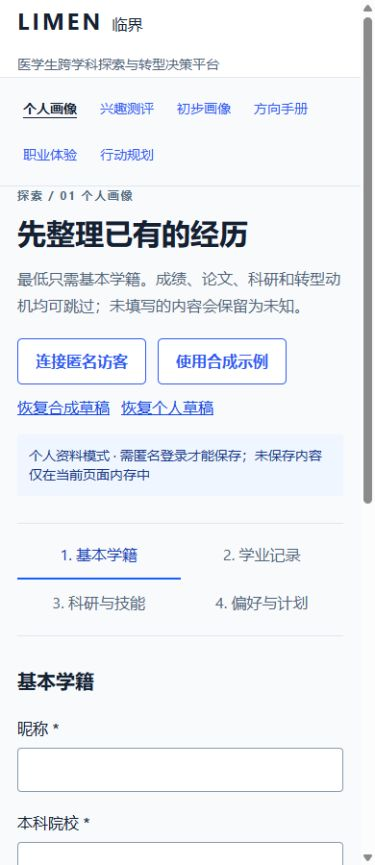
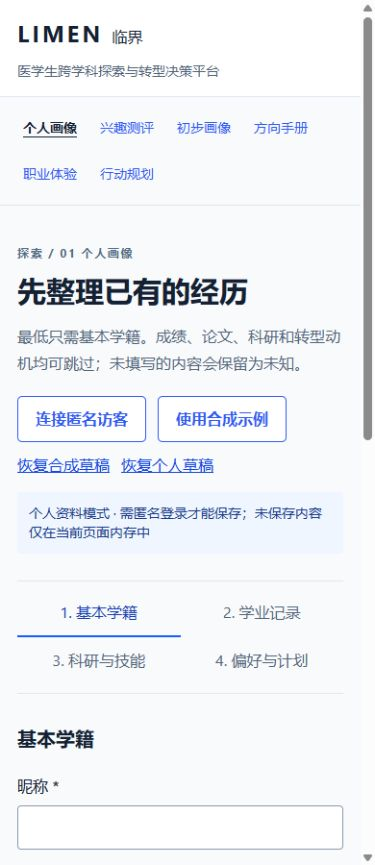
fix: bind R2 reports to submitted plans and preserve evidence snapshots

diff --git a/src/components/ai-report.tsx b/src/components/ai-report.tsx
@@ -1,23 +1,28 @@
 "use client";
 import { useState } from "react";
-import { readSavedExplanation, type AiExplanation } from "@/lib/ai";
+import { readSavedExplanation } from "@/lib/ai";
+import { parseR2Planning } from "@/lib/planning";
 import { download } from "@/lib/download";
 
-export function AiReport({ kind, direction }: { kind: "R1" | "R2"; direction?: string }) {
-  const [result, setResult] = useState<{ explanation: AiExplanation; generated_at: string } | null>(null);
+export function AiReport({ kind, direction, planning, alternatives = [], enabled = true }: { kind: "R1" | "R2"; direction?: string; planning?: unknown; alternatives?: string[]; enabled?: boolean }) {
+  const [result, setResult] = useState<ReturnType<typeof readSavedExplanation> | null>(null);
   const [message, setMessage] = useState("尚未生成或读取 AI 解释。仅在服务已配置并启用时可调用。");
   const [busy, setBusy] = useState(false);
   async function request(generate: boolean) {
+    if (!enabled || (kind === "R2" && !direction)) return;
     setBusy(true); setResult(null);
     try {
-      const response = await fetch(generate ? "/api/reports" : `/api/reports?kind=${kind}`, generate ? { method: "POST", headers: { "Content-Type": "application/json" }, body: JSON.stringify({ kind, ...(direction ? { direction_id: direction } : {}) }) } : undefined);
+      const currentPlanning = kind === "R2" ? parseR2Planning(planning) : undefined;
+      const body = kind === "R2" ? { kind, direction_id: direction, planning: currentPlanning, alternative_ids: alternatives } : { kind };
+      const response = await fetch(generate ? "/api/reports" : `/api/reports?kind=${kind}`, generate ? { method: "POST", headers: { "Content-Type": "application/json" }, body: JSON.stringify(body) } : undefined);
       const data = await response.json(); if (!response.ok) throw new Error(data.error?.message ?? "AI 解释未生成。");
       if (!data.report) throw new Error("当前访客没有保存的此类 AI 报告。");
-      setResult(readSavedExplanation(data.report, kind, direction)); setMessage("已读取服务实际生成并保存的 AI 解释。请逐项对照证据，不将解释作为报考资格结论。");
+      setResult(readSavedExplanation(data.report, kind, direction, currentPlanning, alternatives)); setMessage("已读取服务实际生成并保存的 AI 解释。请逐项对照证据，不将解释作为报考资格结论。");
     } catch (error) { setMessage(error instanceof Error ? error.message : "读取失败，未生成报告。"); }
     finally { setBusy(false); }
   }
-  return <section className="mt-10 border-t pt-7"><h2 className="text-xl font-semibold">AI 解释 · {kind}</h2><p className="mt-3 text-sm leading-7 muted">生成时仅向配置的服务发送兴趣结果、技能/项目证据及必要体验和计划参数，不发送昵称与院校字段。自由文本可能含本人信息，请在画像中去除不必要的标识。AI 服务默认关闭。</p><div className="mt-4 flex flex-wrap gap-3"><button className="button secondary" disabled={busy} onClick={() => request(false)}>读取已保存的 AI 报告</button><button className="button" disabled={busy || (kind === "R2" && !direction)} onClick={() => request(true)}>{busy ? "处理中…" : "基于当前私有证据生成 AI 解释"}</button></div><p className="status text-sm" role="status">{message}</p>
-    {result && <><p className="mt-4 text-xs muted">实际生成时间：{result.generated_at}</p><ul className="mt-4 space-y-5">{result.explanation.explanations.map((item, i) => <li key={i}><p className="leading-7">{item.text}</p><p className="mt-1 break-all text-xs muted">证据：{item.evidence_refs.join("；")}</p></li>)}</ul><ul className="mt-5 list-disc pl-5 text-sm leading-7">{result.explanation.unknowns.map((s) => <li key={s}>{s}</li>)}</ul><button className="button secondary mt-5" onClick={() => download(`limen-${kind}-ai-explanation.json`, JSON.stringify(result, null, 2))}>导出 AI 解释与引用</button></>}
+  const disabled = busy || !enabled || (kind === "R2" && !direction);
+  return <section className="mt-10 border-t pt-7"><h2 className="text-xl font-semibold">AI 解释 · {kind}</h2><p className="mt-3 text-sm leading-7 muted">生成时仅向配置的服务发送兴趣结果、技能/项目证据及必要体验和计划参数，不发送昵称与院校字段。自由文本可能含本人信息，请在画像中去除不必要的标识。AI 服务默认关闭。</p>{kind === "R2" && <p className="mt-3 text-sm leading-7 muted">正式解释需读取个人画像、官方测评和私有体验，并填写有效条件与预算。合成草案不调用AI。本页参数随新报告保存，不自动覆盖画像。</p>}<div className="mt-4 flex flex-wrap gap-3"><button className="button secondary" disabled={disabled} onClick={() => request(false)}>读取已保存的 AI 报告</button><button className="button" disabled={disabled} onClick={() => request(true)}>{busy ? "处理中…" : "基于当前私有证据生成 AI 解释"}</button></div><p className="status text-sm" role="status">{message}</p>
+    {result && <><p className="mt-4 text-xs muted">实际生成时间：{result.generated_at}</p>{result.planning && <p className="mt-2 text-sm leading-7">报告条件：{result.planning.transition_year}年 · {result.planning.pathway} · 每周{result.planning.weekly_hours}小时；基础/练习/复盘预算：{result.planning.weekly_allocation.foundation}/{result.planning.weekly_allocation.practice}/{result.planning.weekly_allocation.review}小时。</p>}<ul className="mt-4 space-y-5">{result.explanation.explanations.map((item, i) => <li key={i}><p className="leading-7">{item.text}</p><p className="mt-1 break-all text-xs muted">证据：{item.evidence_refs.join("；")}</p></li>)}</ul><ul className="mt-5 list-disc pl-5 text-sm leading-7">{result.explanation.unknowns.map((s) => <li key={s}>{s}</li>)}</ul><details className="mt-5 border-y py-4"><summary className="cursor-pointer font-medium">查看报告生成时的证据快照</summary><p className="mt-3 text-sm muted">以下依据属于本份已保存报告，不会被当前编辑中的画像替换。</p><ul className="mt-4 divide-y">{result.evidence.map((entry) => <li key={entry.ref} className="py-4"><code className="break-all text-xs">{entry.ref}</code><pre className="mt-2 whitespace-pre-wrap break-words text-sm leading-7">{JSON.stringify(entry.value, null, 2)}</pre></li>)}</ul></details><button className="button secondary mt-5" onClick={() => download(`limen-${kind}-ai-explanation.json`, JSON.stringify(result, null, 2))}>导出 AI 解释、条件与证据</button></>}
   </section>;
 }

diff --git a/src/app/report/plan/report.tsx b/src/app/report/plan/report.tsx
@@ -21,7 +21,7 @@ export function PlanReport({ initialDirection }: { initialDirection: string }) {
   const [message, setMessage] = useState("请选择目标方向，并读取画像与体验反馈。当前仅提供可追溯规则草案，正式 AI R2 尚未生成。");
   const [alternatives, setAlternatives] = useState<string[]>([]);
   const [budget, setBudget] = useState({ foundation: 0, practice: 0, review: 0 });
-  const plan = direction && findDirection(direction) ? actionPlan(profile, direction, experience, new Date(), assessment) : null;
+  const plan = direction && findDirection(direction) ? actionPlan(profile, direction, experience, new Date(), assessment, undefined, alternatives) : null;
   const budgetTotal = budget.foundation + budget.practice + budget.review;
   const budgetValid = budgetTotal > 0 && profile.weekly_hours !== null && budgetTotal <= profile.weekly_hours;
   const ready = loaded && !!experience && !!plan?.planning_ready && budgetValid;
@@ -41,7 +41,7 @@ export function PlanReport({ initialDirection }: { initialDirection: string }) {
         const parsed = experienceSchema.safeParse(exp.experience);
         setProfile(personalProfile); setSimulation(false); setAssessment(official);
         setExperience(parsed.success ? parsed.data : null); setLoaded(true);
-        setMessage(parsed.success ? "已读取当前访客私有画像与合成工作台反馈。计划条件需通过画像页保存后才能生成正式报告。" : "已读取个人画像，尚无当前访客的私有体验记录。请在工作台完成后保存到当前访客。");
+        setMessage(parsed.success ? "已读取当前访客私有画像与合成工作台反馈。正式报告将使用本页明确填写的计划条件与预算。" : "已读取个人画像，尚无当前访客的私有体验记录。请在工作台完成后保存到当前访客。");
         return;
       } else {
         const value = JSON.parse(localStorage.getItem("limen:simulation:profile:v1") ?? "null");
@@ -75,8 +75,8 @@ export function PlanReport({ initialDirection }: { initialDirection: string }) {
       <fieldset className="mt-5"><legend className="font-medium">自行分配一周的预算（不代表课程所需时长）</legend><div className="mt-3 grid gap-4 sm:grid-cols-3">{([["foundation", "基础学习"], ["practice", "小型练习"], ["review", "复盘与核验"]] as const).map(([id, label]) => <label key={id}>{label} / 小时<input className="field" type="number" step="0.5" min={0} max={168} value={budget[id]} onChange={(e) => setBudget((b) => ({ ...b, [id]: Math.max(0, Math.min(168, Number(e.target.value))) }))} /></label>)}</div></fieldset><p className="mt-4 text-sm" role="status">已分配 {budgetTotal} 小时 / 可用 {profile.weekly_hours ?? "未填写"} 小时。{budgetValid ? "预算有效；一周后用实际耗时修订。" : "请填写正数可用时间，且分配总量不得超过每周可用时间。"}</p>
       {plan.planning && <><p className="mt-4 text-sm leading-7">{plan.planning.horizon} 每个阶段以交付物验收后再推进，暂不虚构完成月份。</p><ol className="mt-5 space-y-4 border-l pl-5">{plan.planning.milestones.map((milestone) => <li key={milestone.stage}><h3 className="font-medium">{milestone.stage}</h3><p className="mt-1 text-sm leading-7">{milestone.exit_condition}</p><p className="mt-1 break-words text-xs muted">对应任务：{milestone.task_ids.join("、")}</p></li>)}</ol><p className="mt-3 text-xs leading-6 muted">升学清单为 LIMEN 编辑性准备建议，输入来自 user_profile.pathway；不代表任何项目的官方要求或已核验截止时间。</p></>}
     </section><section className="mt-9 border-t pt-6"><h2 className="text-xl font-semibold">06 · 招生核验与风险</h2><p className="mt-4 notice">已核验招生项目：0 条。没有院校可报考结论。请在官方招生页面逐条记录：年份、专业代码、招生方式、科目、跨专业资格、链接和核验日期。</p><ul className="mt-5 list-disc space-y-3 pl-5 text-sm leading-7">{plan.risks.map((risk) => <li key={risk}>{risk}</li>)}</ul></section>
-    <div className="mt-8 flex flex-wrap gap-4"><button className="button" disabled={!ready} onClick={exportDraft}>导出规则行动草案</button><Link href="/profile" className="button secondary">补充与保存画像</Link><Link href="/studio/ecg" className="button secondary">返回职业体验</Link></div><p className="mt-3 text-sm muted">导出需：读取画像、完成体验反馈、填写有效计划条件及预算。当前页修改只留在内存；通过画像页保存个人资料。</p></>}
+    <div className="mt-8 flex flex-wrap gap-4"><button className="button" disabled={!ready} onClick={exportDraft}>导出规则行动草案</button><Link href="/profile" className="button secondary">补充与保存画像</Link><Link href="/studio/ecg" className="button secondary">返回职业体验</Link></div><p className="mt-3 text-sm muted">导出需：读取画像、完成体验反馈、填写有效计划条件及预算。本页条件、预算与备选方向会随新AI报告保存；长期个人资料仍通过画像页保存。</p></>}
     <p className="mt-9 text-sm muted">本报告是探索辅助，不代表报考资格。以上为规则行动草案；正式 AI 报告的实际状态在下方独立显示。</p>
-    <AiReport key={direction} kind="R2" direction={findDirection(direction)?.id} />
+    <AiReport key={JSON.stringify([direction, alternatives, profile.transition_year, profile.weekly_hours, profile.pathway, budget, loaded, simulation])} kind="R2" direction={findDirection(direction)?.id} alternatives={alternatives} enabled={ready && !simulation && !!assessment} planning={{ transition_year: profile.transition_year, weekly_hours: profile.weekly_hours, pathway: profile.pathway, weekly_allocation: budget }} />
   </main>;
 }

diff --git a/src/app/api/reports/route.ts b/src/app/api/reports/route.ts
@@ -8,6 +8,7 @@ import { requestAiExplanation, type Evidence } from "@/lib/ai";
 import { requiredEnv } from "@/lib/server/env";
 import { checkOrigin, errorResponse, json, limit, readJson } from "@/lib/server/http";
 import { requireSession } from "@/lib/server/supabase";
+import { r2PlanningSchema } from "@/lib/planning";
 
 export const dynamic = "force-dynamic";
 export async function GET(request: Request) {
@@ -24,11 +25,14 @@ export async function POST(request: Request) {
   try {
     checkOrigin(request);
     const { client, user } = await requireSession();
+    const input = z.discriminatedUnion("kind", [
+      z.object({ kind: z.literal("R1") }).strict(),
+      z.object({ kind: z.literal("R2"), direction_id: z.string().min(1).max(50), planning: r2PlanningSchema, alternative_ids: z.array(z.string().min(1).max(50)).max(2).default([]) }).strict(),
+    ]).safeParse(await readJson(request));
+    if (!input.success) throw new AppError("REPORT_INPUT", 400, "报告请求或计划预算无效，请检查本次填写的条件。");
     if (process.env.LIMEN_ENABLE_LLM !== "true") throw new AppError("AI_DISABLED", 503, "AI 解释服务未启用。当前仅可查看规则证据草案。");
     const config = { baseUrl: requiredEnv("LLM_BASE_URL"), key: requiredEnv("LLM_API_KEY"), model: requiredEnv("LLM_MODEL") };
     limit(`ai:${user.id}`, 2); limit("ai:global", 10);
-    const input = z.object({ kind: z.enum(["R1", "R2"]), direction_id: z.string().max(50).optional() }).strict().safeParse(await readJson(request));
-    if (!input.success) throw new AppError("REPORT_INPUT", 400, "报告请求无效。");
     const [p, a] = await Promise.all([
       client.from("profiles").select("payload").eq("id", user.id).maybeSingle(),
       client.from("assessments").select("payload").eq("id", user.id).maybeSingle(),
@@ -53,14 +57,16 @@ export async function POST(request: Request) {
       const experience = experienceSchema.safeParse(e.data?.payload);
       if (!experience.success || !previous.data) throw new AppError("EXPERIENCE_REQUIRED", 409, "请先生成 R1，并将已完成的工作台体验保存到当前访客。");
       let plan;
-      try { plan = actionPlan(profile.data, input.data.direction_id ?? "", experience.data, new Date(), assessment.data); } catch { throw new AppError("DIRECTION_REQUIRED", 400, "请选择目录内目标方向。"); }
-      if (!plan.planning_ready) throw new AppError("PLAN_REQUIRED", 409, "请先在画像保存有效目标年份、每周时间与升学路径。");
+      try { plan = actionPlan(profile.data, input.data.direction_id, experience.data, new Date(), assessment.data, input.data.planning, input.data.alternative_ids); }
+      catch (error) { if (error instanceof AppError) throw error; throw new AppError("DIRECTION_REQUIRED", 400, "请选择目录内目标方向。"); }
+      if (!plan.planning_ready) throw new AppError("PLAN_REQUIRED", 409, "请填写有效目标年份、每周时间、升学路径与预算。");
       rules = { ...plan, formal_ready: true };
       evidence.push(
         { ref: "experience_feedback", kind: "experience", value: experience.data.reflection },
         { ref: `limen_direction_map:${plan.direction.id}:selected`, kind: "direction", value: { name: plan.direction.name, tasks: plan.direction.work_tasks, selected_by_user: true } },
         { ref: "competency_gaps", kind: "gap", value: plan.gaps },
-        { ref: "user_profile.planning", kind: "planning", value: { transition_year: profile.data.transition_year, weekly_hours: profile.data.weekly_hours, pathway: profile.data.pathway, admissions: "未核验", effort: "未知" } },
+        { ref: "report_input.planning", kind: "planning", value: { ...input.data.planning, source: "user_explicit_report_input", admissions: "未核验", effort: "未知" } },
+        ...plan.alternative_directions.map((d) => ({ ref: `limen_direction_map:${d.id}:alternative`, kind: "direction" as const, value: { name: d.name, tasks: d.work_tasks, selected_by_user: true, role: "subjective_alternative" } })),
       );
     }
     const ai = await requestAiExplanation(config, evidence);

diff --git a/tests/ai.test.ts b/tests/ai.test.ts
@@ -3,17 +3,37 @@ import assert from "node:assert/strict";
 import { readSavedExplanation, redactEvidence, requestAiExplanation, validateAiExplanation, type Evidence } from "../src/lib/ai";
 const evidence: Evidence[] = [{ ref: "user_profile.tech_skills[0]", kind: "transfer", value: "simulation：自述 Python 入门" }];
 const output = { explanations: [{ kind: "transfer", evidence_refs: [evidence[0].ref], text: "仅有入门自述，具体独立实践能力尚未核验。" }], unknowns: ["尚无项目成果"] };
-const savedReport = { kind: "R2", source: "llm_live", rules: { direction: { id: "ml_cv" } }, evidence, ai: { explanation: output, generated_at: "2026-10-20T12:00:00.000Z", source: "llm_live" } };
+const reportPlanning = { transition_year: 2030, weekly_hours: 4, pathway: "统考", weekly_allocation: { foundation: 2, practice: 1, review: 1 } };
+const savedReport = { kind: "R2", source: "llm_live", rules: { direction: { id: "ml_cv" }, planning_input: reportPlanning }, evidence, ai: { explanation: output, generated_at: "2026-10-20T12:00:00.000Z", source: "llm_live" } };
+
+test("mock=true saved AI: a changed year, pathway or allocation cannot reuse the old R2", () => {
+  const planning = { transition_year: 2030, weekly_hours: 4, pathway: "统考", weekly_allocation: { foundation: 2, practice: 1, review: 1 } };
+  const saved = { ...savedReport, rules: { ...savedReport.rules, planning_input: planning } };
+  for (const changed of [{ ...planning, transition_year: 2031 }, { ...planning, weekly_hours: 5 }, { ...planning, pathway: "推免" }, { ...planning, weekly_allocation: { foundation: 1, practice: 2, review: 1 } }]) assert.throws(() => readSavedExplanation(saved, "R2", "ml_cv", changed));
+  assert.deepEqual(readSavedExplanation(saved, "R2", "ml_cv", planning).planning, planning);
+  assert.throws(() => readSavedExplanation(saved, "R2", "ml_cv", planning, ["software"]));
+  assert.throws(() => readSavedExplanation({ ...saved, rules: { direction: { id: "ml_cv" } } }, "R2", "ml_cv", planning));
+});
+test("mock=true saved AI: R1 remains readable without R2 planning", () => {
+  assert.deepEqual(readSavedExplanation({ ...savedReport, kind: "R1", rules: {} }, "R1").explanation, output);
+});
+test("mock=true saved AI: exported explanations retain the saved evidence snapshot", () => {
+  const saved = { ...savedReport, kind: "R1", rules: {}, evidence: [{ ...evidence[0], value: "mock=true：生成时保存的项目依据" }] };
+  const exported = JSON.parse(JSON.stringify(readSavedExplanation(saved, "R1")));
+  assert.equal(exported.evidence[0].value, "mock=true：生成时保存的项目依据");
+  assert.equal(exported.evidence[0].ref, "user_profile.tech_skills[0]");
+});
 
 test("mock=true saved AI: R2 never displays a different selected direction", () => {
-  assert.deepEqual(readSavedExplanation(savedReport, "R2", "ml_cv").explanation, output);
+  assert.deepEqual(readSavedExplanation(savedReport, "R2", "ml_cv", reportPlanning).explanation, output);
   assert.throws(() => readSavedExplanation(savedReport, "R2", "software_eng"), /其他目标方向/);
   assert.throws(() => readSavedExplanation(savedReport, "R2"), /其他目标方向/);
   assert.throws(() => readSavedExplanation(savedReport, "R1"), /类型或结构/);
+  assert.throws(() => readSavedExplanation({ ...savedReport, rules: { ...savedReport.rules, direction: { id: "fake" } } }, "R2", "fake", reportPlanning), /其他目标方向/);
 });
 test("mock=true saved AI: missing metadata and invented references are rejected on read", () => {
   assert.throws(() => readSavedExplanation({ ...savedReport, source: "simulation" }, "R2", "ml_cv"));
-  assert.throws(() => readSavedExplanation({ ...savedReport, evidence: [] }, "R2", "ml_cv"), /证据校验/);
+  assert.throws(() => readSavedExplanation({ ...savedReport, evidence: [] }, "R2", "ml_cv", reportPlanning), /证据校验/);
   assert.throws(() => readSavedExplanation({ ...savedReport, ai: { ...savedReport.ai, generated_at: "unknown" } }, "R2", "ml_cv"));
 });
 test("mock=true AI: valid explanation requires existing evidence and matching kind", () => {

diff --git a/src/lib/ai.ts b/src/lib/ai.ts
@@ -1,5 +1,7 @@
 import { z } from "zod";
 import { AppError } from "./errors";
+import { r2PlanningSchema, type R2PlanningInput } from "./planning";
+import { findDirection } from "./directions";
 
 export type Evidence = { ref: string; kind: "interest" | "transfer" | "gap" | "experience" | "direction" | "planning"; value: unknown };
 export const aiExplanationSchema = z.object({
@@ -11,7 +13,7 @@ export const aiExplanationSchema = z.object({
   unknowns: z.array(z.string().max(200)).max(8),
 }).strict();
 export type AiExplanation = z.infer<typeof aiExplanationSchema>;
-export function readSavedExplanation(input: unknown, kind: "R1" | "R2", direction?: string) {
+export function readSavedExplanation(input: unknown, kind: "R1" | "R2", direction?: string, expectedPlanning?: unknown, expectedAlternatives: string[] = []) {
   const saved = z.object({
     kind: z.enum(["R1", "R2"]), source: z.literal("llm_live"),
     rules: z.object({ direction: z.object({ id: z.string() }).passthrough().optional() }).passthrough(),
@@ -19,11 +21,21 @@ export function readSavedExplanation(input: unknown, kind: "R1" | "R2", directio
     evidence: z.array(z.object({ ref: z.string(), kind: z.enum(["interest", "transfer", "gap", "experience", "direction", "planning"]), value: z.unknown() })),
   }).passthrough().safeParse(input);
   if (!saved.success || saved.data.kind !== kind) throw new AppError("REPORT_CONTRACT", 502, "已保存的报告类型或结构无效，请重新生成。");
-  if (kind === "R2" && (!direction || saved.data.rules.direction?.id !== direction)) throw new AppError("REPORT_DIRECTION", 409, "已保存的 R2 属于其他目标方向。请为当前方向生成报告，未展示旧方向的解释。");
+  if (kind === "R2" && (!direction || !findDirection(direction) || saved.data.rules.direction?.id !== direction)) throw new AppError("REPORT_DIRECTION", 409, "已保存的 R2 属于其他目标方向。请为当前方向生成报告，未展示旧方向的解释。");
+  let planning: R2PlanningInput | undefined;
+  if (kind === "R2") {
+    const expected = r2PlanningSchema.safeParse(expectedPlanning);
+    const stored = r2PlanningSchema.safeParse(saved.data.rules.planning_input);
+    if (!expected.success || !stored.success || JSON.stringify(expected.data) !== JSON.stringify(stored.data)) throw new AppError("REPORT_PLAN", 409, "已保存的 R2 计划条件或预算与当前页面不一致，请按当前参数重新生成。");
+    const storedAlternatives = z.array(z.object({ id: z.string().max(50) }).passthrough()).max(2).safeParse(saved.data.rules.alternative_directions ?? []);
+    const ids = storedAlternatives.success ? storedAlternatives.data.map((d) => d.id) : [];
+    if (!storedAlternatives.success || new Set(ids).size !== ids.length || ids.some((id) => id === direction || !findDirection(id)) || JSON.stringify([...ids].sort()) !== JSON.stringify([...expectedAlternatives].sort())) throw new AppError("REPORT_ALTERNATIVES", 409, "已保存的 R2 备选方向与当前选择不一致，请重新生成。");
+    planning = stored.data;
+  }
   let explanation: AiExplanation;
   try { explanation = validateAiExplanation(saved.data.ai.explanation, saved.data.evidence); }
   catch { throw new AppError("REPORT_EVIDENCE", 502, "已保存的 AI 解释未通过证据校验，请重新生成。"); }
-  return { explanation, generated_at: saved.data.ai.generated_at };
+  return { explanation, generated_at: saved.data.ai.generated_at, planning, alternative_ids: kind === "R2" ? [...expectedAlternatives] : [], evidence: saved.data.evidence };
 }
 export function validateAiExplanation(input: unknown, evidence: Evidence[]): AiExplanation {
   const parsed = aiExplanationSchema.safeParse(input);

diff --git a/src/lib/reports.ts b/src/lib/reports.ts
@@ -2,6 +2,7 @@ import { directions, findDirection, type Direction } from "./directions";
 import { profileSchema, type Profile } from "./profile";
 import { assessmentSchema, type AssessmentResult } from "./assessment";
 import type { Experience } from "./experience";
+import { parseR2Planning } from "./planning";
 
 export function skillEvidence(profile: Profile) {
   return [
@@ -47,9 +48,13 @@ function pathwayTasks(pathway: Profile["pathway"]) {
   ];
   return [];
 }
-export function actionPlan(profile: Profile, directionId: string, experience: Experience | null, now = new Date(), assessment: AssessmentResult | null = null) {
+export function actionPlan(profile: Profile, directionId: string, experience: Experience | null, now = new Date(), assessment: AssessmentResult | null = null, planningInput?: unknown, alternativeIds: string[] = []) {
+  const submittedPlanning = planningInput === undefined ? null : parseR2Planning(planningInput, now);
+  if (submittedPlanning) profile = { ...profile, transition_year: submittedPlanning.transition_year, weekly_hours: submittedPlanning.weekly_hours, pathway: submittedPlanning.pathway };
   const direction = findDirection(directionId);
   if (!direction) throw new Error("请选择目录内的目标方向。");
+  if (alternativeIds.length > 2 || new Set(alternativeIds).size !== alternativeIds.length || alternativeIds.includes(directionId)) throw new Error("请选择最多两个不同于主目标的备选方向。");
+  const alternatives = alternativeIds.map((id) => { const alternative = findDirection(id); if (!alternative) throw new Error("备选方向不在目录内。"); return alternative; });
   const source = `limen_direction_map:${direction.id}`;
   const courses = direction.courses.map((course, i) => ({ id: `course-${i + 1}`, title: `了解与练习：${course}`, why: `对应 ${direction.name} 的编辑性课程路径，具体先修要求需核验。`, source, deliverable: `${course} 的概念笔记与一个可复现练习`, dependencies: i === 0 ? [] as string[] : [`course-${i}`], priority: "基础准备", estimated_effort_range: null, stage: `学习阶段 ${i + 1}` }));
   const tasks = [...courses,
@@ -60,7 +65,9 @@ export function actionPlan(profile: Profile, directionId: string, experience: Ex
   const currentYear = now.getUTCFullYear();
   const hasParameters = profileSchema.safeParse(profile).success && profile.weekly_hours !== null && profile.weekly_hours > 0 && profile.transition_year !== null && profile.transition_year >= currentYear && profile.pathway !== "未决定";
   const official = assessment === null ? null : assessmentSchema.parse(assessment);
-  return { version: "limen-r2-rules-v2", direction, gaps: competencyGaps(profile, direction), tasks, experience: experience?.reflection ?? null,
+  return { version: submittedPlanning ? "limen-r2-rules-v3" : "limen-r2-rules-v2", direction, gaps: competencyGaps(profile, direction), tasks, experience: experience?.reflection ?? null,
+    planning_input: submittedPlanning,
+    alternative_directions: alternatives,
     interest: official ? { source: official.source, scores: official.scores, onet_version: official.onet_version, api_version: official.api_version, returned_at: official.returned_at } : null,
     experience_relevance: direction.group_id === "cs_ai" ? "体验涉及模型评价；仅覆盖目标方向的一部分活动。" : "该体验是 AI 模型评价，不能代替此方向的专属岗位体验。",
     planning_ready: hasParameters, formal_ready: false,

diff --git a/tests/reports.test.ts b/tests/reports.test.ts
@@ -75,3 +75,32 @@ test("mock=true P4: R2 preserves official interest provenance and never derives 
   assert.equal(actionPlan(simulationProfile, "ml_cv", null).interest, null);
   assert.throws(() => actionPlan(simulationProfile, "ml_cv", null, new Date("2026-10-20"), { ...complete, scores: [] }));
 });
+
+test("simulation P4: explicit report planning overrides stale profile planning without changing the profile", () => {
+  const profile = { ...simulationProfile, pathway: "统考" as const };
+  const planning = { transition_year: 2030, weekly_hours: 6, pathway: "申请制", weekly_allocation: { foundation: 3, practice: 2, review: 1 } };
+  const plan = actionPlan(profile, "ml_cv", null, new Date("2026-10-20"), null, planning);
+  assert.deepEqual(plan.planning_input, planning);
+  assert.equal(plan.planning?.target_year, 2030);
+  assert.equal(plan.planning?.weekly_hours, 6);
+  assert.equal(plan.planning?.pathway, "申请制");
+  assert.ok(plan.tasks.some((task) => task.title.includes("申请制专属")));
+  assert.equal(profile.transition_year, 2028);
+  assert.equal(profile.weekly_hours, 4);
+  assert.equal(profile.pathway, "统考");
+});
+test("simulation P4: invalid report budgets and past target years are rejected before generation", () => {
+  const valid = { transition_year: 2030, weekly_hours: 4, pathway: "统考", weekly_allocation: { foundation: 2, practice: 1, review: 1 } };
+  for (const invalid of [
+    { ...valid, transition_year: 2025 }, { ...valid, weekly_hours: 0 }, { ...valid, weekly_hours: 169 }, { ...valid, pathway: "未决定" },
+    { ...valid, weekly_allocation: { foundation: 3, practice: 1, review: 1 } },
+    { ...valid, weekly_allocation: { foundation: -1, practice: 2, review: 2 } },
+    { ...valid, weekly_allocation: { foundation: 0, practice: 0, review: 0 } },
+    { ...valid, weekly_allocation: undefined }, { ...valid, unexpected: "not accepted" },
+  ]) assert.throws(() => actionPlan(simulationProfile, "ml_cv", null, new Date("2026-10-20"), null, invalid));
+});
+test("simulation P4: selected alternatives survive the report and invalid choices are rejected", () => {
+  const plan = actionPlan(simulationProfile, "ml_cv", null, new Date("2026-10-20"), null, undefined, ["software", "clinical_data"]);
+  assert.deepEqual(plan.alternative_directions?.map((direction) => direction.id), ["software", "clinical_data"]);
+  for (const invalid of [["ml_cv"], ["fake"], ["software", "software"], ["software", "clinical_data", "signals"]]) assert.throws(() => actionPlan(simulationProfile, "ml_cv", null, new Date("2026-10-20"), null, undefined, invalid));
+});

diff --git a/src/lib/planning.ts b/src/lib/planning.ts
@@ -1,0 +1,19 @@
+import { z } from "zod";
+import { AppError } from "./errors";
+
+const hours = z.number().finite().min(0).max(168);
+export const r2PlanningSchema = z.object({
+  transition_year: z.number().int().min(2026).max(2100),
+  weekly_hours: z.number().finite().positive().max(168),
+  pathway: z.enum(["统考", "推免", "申请制"]),
+  weekly_allocation: z.object({ foundation: hours, practice: hours, review: hours }).strict(),
+}).strict().superRefine((value, ctx) => {
+  const total = value.weekly_allocation.foundation + value.weekly_allocation.practice + value.weekly_allocation.review;
+  if (total <= 0 || total > value.weekly_hours) ctx.addIssue({ code: "custom", path: ["weekly_allocation"], message: "分配总时间必须为正，且不得超过每周可用时间。" });
+});
+export type R2PlanningInput = z.infer<typeof r2PlanningSchema>;
+export function parseR2Planning(input: unknown, now = new Date()): R2PlanningInput {
+  const parsed = r2PlanningSchema.safeParse(input);
+  if (!parsed.success || parsed.data.transition_year < now.getUTCFullYear()) throw new AppError("PLAN_INPUT", 400, "计划条件或预算无效。年份不得已过期，分配总时间需为正且不超过每周可用时间。");
+  return parsed.data;
+}

diff --git a/src/app/globals.css b/src/app/globals.css
@@ -11,7 +11,7 @@ th, td { overflow-wrap: anywhere; }
 button { cursor: pointer; }
 button:disabled { cursor: not-allowed; opacity: .6; }
 :focus-visible { outline: 3px solid #5191d2; outline-offset: 4px; }
-.shell { max-width: 1120px; margin: auto; padding: 0 24px; }
+.shell { max-width: 1120px; margin-inline: auto; padding-inline: 24px; }
 .masthead { border-bottom: 1px solid var(--line); background: white; }
 .app-content { min-width: 0; }
 .app-navigation { display: flex; flex-wrap: wrap; gap: 4px 24px; max-width: 1120px; margin: auto; padding: 10px 24px; border-bottom: 1px solid var(--line); }
@@ -41,4 +41,4 @@ button, a { touch-action: manipulation; }
 input[type="range"] { min-height: 44px; }
 input[type="radio"], input[type="checkbox"] { min-width: 18px; min-height: 18px; accent-color: var(--blue); }
 @media (prefers-reduced-motion: reduce) { *, *::before, *::after { transition: none !important; animation: none !important; scroll-behavior: auto !important; } }
-@media (max-width: 640px) { .shell { padding: 0 18px; } h1 { overflow-wrap: anywhere; } }
+@media (max-width: 640px) { .shell { padding-inline: 18px; } h1 { overflow-wrap: anywhere; } }

diff --git a/docs/PROGRESS.md b/docs/PROGRESS.md
@@ -1,6 +1,6 @@
 # LIMEN 开发进度
 
-更新时间：2026-10-20（America/Los_Angeles）
+更新时间：2026-10-21（America/Los_Angeles）
 
 ## 恢复入口
 
@@ -16,7 +16,7 @@
 | P2 知识库与 R1 | PARTIAL / BLOCKED | 3/9 手册、双方向对比、证据引用规则草案；官方兴趣与 AI 未验收 |
 | P3 职业体验 | LOCAL_ACCEPTANCE_PASS | 三次真实状态变化、数值重算、反思、下载恢复、390/820/1440px 布局通过；访客云保存仍待 Supabase 联调 |
 | P4 R2 与规划 | PARTIAL / BLOCKED | 三种升学路径任务、四个交付阶段、预算和v2实际导出通过；官方兴趣来源契约通过，真实 AI R2 未验收 |
-| P5 集成与部署准备 | PARTIAL / BLOCKED | 30项单测/lint/build、5项HTTP、24项布局及实际截图通过；隐私入口和侧栏完成，真实全链路未验收 |
+| P5 集成与部署准备 | PARTIAL / BLOCKED | 36项单测/lint/build、5项HTTP、24项布局与实际截图通过，间距修正已实测；真实全链路未验收 |
 
 ## 初始检查（历史记录，后续已初始化 Git 与配置 O*NET）
 
@@ -114,3 +114,19 @@
 - 用户询问已有Supabase配置填在哪里：已说明当前Next.js16/App Router，填根`.env.local`的`SUPABASE_URL`与`SUPABASE_ANON_KEY`，此项目不使用NEXT_PUBLIC前缀；anon/publishable可用，不使用service_role。仅检查配置是否存在，最后检查两项仍false，未读取或打印值。配置变化后重启并进行真实迁移/两身份验收，不重复索取权限。
 - 本轮P4/P5仍不是正式全阶段通过：没有真实官方计分、Supabase两身份记录或真实AI生成；Goal保持未完成。
 - 提交前`git diff --cached --check`通过，24个暂存文件密钥扫描退出0（含真实截图与合成导出），未回显值；最后一次仅检查Supabase两项配置仍为false。继续等待配置实际落盘后进行相应真实验收，不假报已配置。
+
+## P4 正式报告输入一致性复核（2026-10-21，继续开发）
+
+- 恢复时Git干净，最新提交`ba43421`；同目录无其他活跃Codex任务。上一轮为实际进展。Supabase两项配置与AI配置仍未落盘，未循环请求O*NET。
+- 本轮发现正式R2原来忽略页面上新填写的年份/路径/预算，仍读取画像旧条件，且备选方向未进入正式保存内容。现改为显式请求参数，服务端独立校验年份、时间、路径、预算总额和最多两个有效备选；规则v3保存`planning_input`快照，使用`report_input.planning`引用，不静默覆盖长期画像。
+- 读取已存R2时校验方向、计划参数、预算与备选是否一致；不一致或旧报告缺快照则要求重新生成。更改条件会清除页面旧AI结果。R1仍可独立读取，不要求R2计划参数。
+- AI控件在合成模式、缺官方测评/私有体验或计划未就绪时禁用；默认AI服务仍关闭。正式服务未调用，没有发生付费操作。
+- 补充生成时的原始证据快照展示与导出，避免只导出引用编号、以后却用已修改画像解释旧报告。
+- 定向测试先复现计划未传递、旧报告可被误用、备选丢失和导出缺少证据，再逐项实现。首次3项失败、备选补充2项失败、证据导出1项失败均为预期红灯；最终完整测试/构建和浏览器检查完成后补记。
+- 最新`npm run lint`退出0、0警告；`npm test`36/36通过、0跳过；新增6用例中5项复现缺口、1项守护R1兼容性。包含计划覆盖但不修改画像、各种非法预算、备选合法性、旧报告上下文拒绝和完整证据导出；没有真实AI调用。
+- 浏览器实测：空条件下AI按钮禁用；读取simulation画像与体验、申请制、2/1/1预算有效时，规则草案可导出，AI读取和生成均禁用。390px无横向溢出，实际截图`P4-ai-context-mobile-390.png`已保存（随后还发现间距问题并修正）。
+- 视觉复查发现`.shell`的padding/margin简写覆盖Tailwind上下间距，导致正文/页脚间距失效；改为仅设置横向属性，保留页面原定上下间距，正在重建复测。
+- 最终构建退出0，TypeScript和全部页面生成通过。修正后实际读取main padding-top=40px、footer margin-top=64px、padding-top=32px；手机画像四步骤仍339px无容器溢出，第四步可达。已更新手机截图和`P5-responsive.latest.json`，24项实际布局检查均通过。
+- 最终3002占位配置HTTP smoke 5/5通过，客户端密钥扫描42文件通过；该测试进程已停止，3001真实配置预览保留。最新36项单测为实际执行结果，不代表真实O*NET/数据库/LLM验收。
+- 真实服务状态复核：Supabase两项仍未配置、AI关闭，本机Docker Linux engine pipe仍不存在；没有重复请求官方接口或收费服务，完整Goal继续未完成。
+- 提交前差异检查通过，17个暂存文件密钥扫描退出0，未输出任何值；本轮提交保存参数一致性、证据快照、间距修正与实际测试证据，非完整阶段通过声明。

diff --git a/docs/LOCAL_SETUP.md b/docs/LOCAL_SETUP.md
@@ -32,3 +32,11 @@ AI 默认关闭（`LIMEN_ENABLE_LLM=false`）。实现支持带 JSON Schema 的 
 - 完整画像、测评、体验和 R1/R2 报告表均已实现；迁移与跨身份 RLS 尚未真实验证，不能凭静态 SQL 声称隔离通过。
 - 中文题目为独立初译稿，逐题原文完全匹配后才附译文；效度与公开发布条件尚未验证。文档快照不生成官方成绩。
 - 详见 `docs/DEMO.md` 和 `docs/DEPLOYMENT.md`。
+
+## R2 正式生成的计划参数
+
+R1 请求只需报告类型。R2 请求另带 `direction_id`、`planning`（目标年份、每周时间、升学路径、基础/练习/复盘预算）以及最多两个 `alternative_ids`。参数来自R2页面本次明确填写，服务端验证预算与方向后随报告保存；长期画像仍通过画像页保存。
+
+报告规则v3保存计划快照与备选。读取时需要与当前页面条件匹配；缺少快照的旧R2提示重新生成，不静默套用旧条件。AI解释导出包含保存时的证据快照，便于以后对照引用。R1读取不要求R2条件。
+
+以上契约和失败处理已做本地单测；真实AI和Supabase联调尚未通过，默认服务关闭状态保持。
